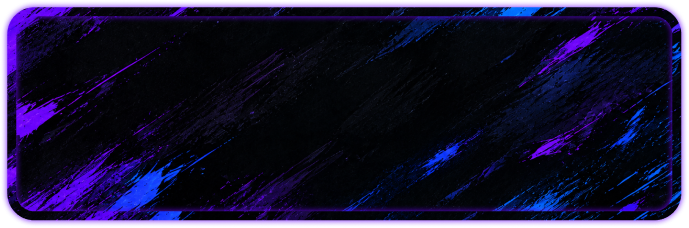
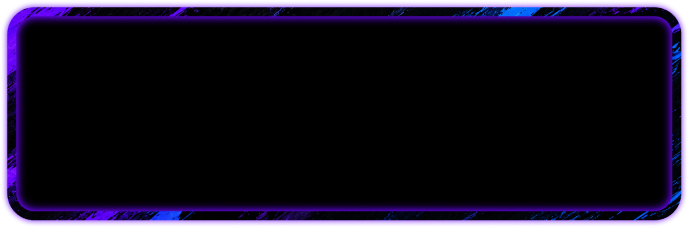
loading and optimization

diff --git a/app.js b/app.js
@@ -248,7 +248,7 @@ function loadXPosts(container) {
 }
 
 /**
- * Scan numbered files: 01, 02, 03... up to 100
+ * Scan numbered files: 01, 02, 03... up to 100 with active loading indicators & skeleton placeholders
  */
 function scanPortfolioFolder(folderName, container, isVideo) {
   const cfg = window.LUXE_CONFIG?.portfolio || {};
@@ -257,60 +257,174 @@ function scanPortfolioFolder(folderName, container, isVideo) {
     ? (cfg.videoExtensions || ['mp4', 'webm', 'mov'])
     : (cfg.photoExtensions || ['png', 'jpg', 'jpeg', 'webp', 'gif']);
 
-  let foundCount = 0;
   container.innerHTML = '';
+  let foundCount = 0;
+  let activeLoads = 0;
 
-  // Helper to test each candidate
+  const statusBar = document.getElementById('portfolioLoadingStatus');
+  const statusText = document.getElementById('portfolioStatusText');
+
+  function updateStatus() {
+    if (!statusBar || !statusText) return;
+    if (activeLoads > 0) {
+      statusBar.classList.remove('hidden');
+      statusText.textContent = `Loading ${activeLoads} ${isVideo ? 'video' : 'photo'} items...`;
+    } else {
+      statusText.textContent = `All media loaded! (${foundCount} found)`;
+      setTimeout(() => {
+        if (activeLoads === 0) {
+          statusBar.classList.add('hidden');
+        }
+      }, 1200);
+    }
+  }
+
+  // Pre-create placeholder skeleton frames for early indices
+  const initialSkeletons = {};
+  for (let s = 1; s <= 4; s++) {
+    const pad = String(s).padStart(2, '0');
+    const skel = document.createElement('div');
+    skel.className = 'skeleton-placeholder';
+    skel.id = `skel-${folderName}-${pad}`;
+    skel.innerHTML = `
+      <div class="skeleton-spinner"></div>
+      <span class="skeleton-label">Loading ${isVideo ? 'Video' : 'Photo'} ${pad}...</span>
+    `;
+    container.appendChild(skel);
+    initialSkeletons[pad] = skel;
+  }
+
+  updateStatus();
+
+  // Test sequentially and in parallel batches for optimal speed
   for (let i = 1; i <= max; i++) {
     const padded = String(i).padStart(2, '0');
     const unpadded = String(i);
-
     const candidateBases = [padded, unpadded];
 
     candidateBases.forEach(name => {
       extensions.forEach(ext => {
         const filePath = `Portfolio/${folderName}/${name}.${ext}`;
-        testAndAddMedia(filePath, container, isVideo, `${name}.${ext}`, () => {
-          foundCount++;
-          removeEmptyState(container);
-        });
+        activeLoads++;
+        updateStatus();
+
+        testAndAddMedia(
+          filePath,
+          container,
+          isVideo,
+          `${name}.${ext}`,
+          // On Success
+          () => {
+            foundCount++;
+            activeLoads = Math.max(0, activeLoads - 1);
+            if (initialSkeletons[padded] && initialSkeletons[padded].parentNode) {
+              initialSkeletons[padded].remove();
+              delete initialSkeletons[padded];
+            }
+            removeEmptyState(container);
+            updateStatus();
+          },
+          // On Fail / Finished probing
+          () => {
+            activeLoads = Math.max(0, activeLoads - 1);
+            updateStatus();
+          }
+        );
       });
     });
   }
 
-  // If after checking none exist yet, display user-friendly helper
+  // Clean up any remaining initial skeletons if not enough items exist
   setTimeout(() => {
+    Object.keys(initialSkeletons).forEach(pad => {
+      if (initialSkeletons[pad] && initialSkeletons[pad].parentNode) {
+        initialSkeletons[pad].remove();
+      }
+    });
+
     if (foundCount === 0) {
       showEmptyState(folderName, container, isVideo);
     }
-  }, 600);
+    updateStatus();
+  }, 1200);
 }
 
-function testAndAddMedia(url, container, isVideo, fileName, onSuccess) {
+/**
+ * Highly optimized media loader with fast metadata detection
+ */
+function testAndAddMedia(url, container, isVideo, fileName, onSuccess, onFail) {
   if (isVideo) {
     const video = document.createElement('video');
-    video.preload = 'metadata';
+    video.preload = 'metadata'; // Fast metadata load without buffering entire multi-MB video
+    video.muted = true;
+    video.playsInline = true;
     video.src = url;
-    video.onloadeddata = () => {
-      // Avoid duplicate insertion if padded and unpadded match
-      if (container.querySelector(`[data-url="${url}"]`)) return;
+
+    let hasHandled = false;
+
+    video.onloadedmetadata = () => {
+      if (hasHandled) return;
+      hasHandled = true;
+
+      // Avoid duplicates
+      if (container.querySelector(`[data-url="${url}"]`)) {
+        if (onFail) onFail();
+        return;
+      }
       onSuccess();
-      const card = createMediaCard(url, fileName, true);
+      const card = createMediaCard(url, fileName, true, video);
       container.appendChild(card);
     };
+
+    video.onerror = () => {
+      if (hasHandled) return;
+      hasHandled = true;
+      if (onFail) onFail();
+    };
+
+    // Timeout safety for non-existent files
+    setTimeout(() => {
+      if (!hasHandled) {
+        hasHandled = true;
+        if (onFail) onFail();
+      }
+    }, 1200);
+
   } else {
     const img = new Image();
-    img.src = url;
+    let hasHandled = false;
+
     img.onload = () => {
-      if (container.querySelector(`[data-url="${url}"]`)) return;
+      if (hasHandled) return;
+      hasHandled = true;
+
+      if (container.querySelector(`[data-url="${url}"]`)) {
+        if (onFail) onFail();
+        return;
+      }
       onSuccess();
       const card = createMediaCard(url, fileName, false);
       container.appendChild(card);
     };
+
+    img.onerror = () => {
+      if (hasHandled) return;
+      hasHandled = true;
+      if (onFail) onFail();
+    };
+
+    img.src = url;
+
+    setTimeout(() => {
+      if (!hasHandled) {
+        hasHandled = true;
+        if (onFail) onFail();
+      }
+    }, 1200);
   }
 }
 
-function createMediaCard(url, fileName, isVideo) {
+function createMediaCard(url, fileName, isVideo, existingVideo) {
   const item = document.createElement('div');
   item.className = 'portfolio-media-item';
   item.setAttribute('data-url', url);
@@ -324,8 +438,9 @@ function createMediaCard(url, fileName, isVideo) {
   overlay.innerHTML = '<i class="fa-solid fa-expand"></i>';
 
   if (isVideo) {
-    const vid = document.createElement('video');
+    const vid = existingVideo || document.createElement('video');
     vid.src = url;
+    vid.preload = 'metadata';
     vid.muted = true;
     vid.loop = true;
     vid.playsInline = true;
@@ -341,6 +456,7 @@ function createMediaCard(url, fileName, isVideo) {
     img.src = url;
     img.alt = fileName;
     img.loading = 'lazy';
+    img.decoding = 'async';
     item.appendChild(img);
   }
 

diff --git a/style.css b/style.css
@@ -694,6 +694,106 @@ html, body {
   margin: 0 auto;
 }
 
+/* ====================================================================
+   PORTFOLIO STATUS & SKELETON LOADERS
+   ==================================================================== */
+.portfolio-status-bar {
+  display: flex;
+  align-items: center;
+  justify-content: center;
+  gap: 12px;
+  background: rgba(147, 51, 234, 0.09);
+  border: 1px solid rgba(147, 51, 234, 0.28);
+  border-radius: 12px;
+  max-width: 480px;
+  margin: 0 auto 24px;
+  padding: 10px 22px;
+  color: #00d2ff;
+  font-size: 13.5px;
+  font-weight: 600;
+  letter-spacing: 0.8px;
+  transition: opacity 0.3s ease, transform 0.3s ease;
+}
+
+.portfolio-status-bar.hidden {
+  opacity: 0;
+  pointer-events: none;
+  transform: translateY(-8px);
+  height: 0;
+  padding: 0;
+  margin-bottom: 0;
+  overflow: hidden;
+  border: none;
+}
+
+.status-pulse-dot {
+  width: 9px;
+  height: 9px;
+  border-radius: 50%;
+  background-color: #00d2ff;
+  box-shadow: 0 0 10px #00d2ff;
+  animation: statusPulse 1.2s infinite ease-in-out;
+}
+
+@keyframes statusPulse {
+  0%, 100% {
+    transform: scale(0.9);
+    opacity: 0.5;
+  }
+  50% {
+    transform: scale(1.3);
+    opacity: 1;
+  }
+}
+
+/* Skeleton Loading Placeholder for Media Items */
+.skeleton-placeholder {
+  position: relative;
+  background: linear-gradient(110deg, #0e0c15 8%, #1c172a 18%, #0e0c15 33%);
+  background-size: 200% 100%;
+  animation: shimmer 1.5s infinite linear;
+  border: 1px solid rgba(147, 51, 234, 0.25);
+  border-radius: 16px;
+  aspect-ratio: 16 / 9;
+  display: flex;
+  flex-direction: column;
+  align-items: center;
+  justify-content: center;
+  gap: 12px;
+  color: var(--text-muted);
+}
+
+@keyframes shimmer {
+  0% {
+    background-position: 200% 0;
+  }
+  100% {
+    background-position: -200% 0;
+  }
+}
+
+.skeleton-spinner {
+  width: 32px;
+  height: 32px;
+  border: 3px solid rgba(147, 51, 234, 0.3);
+  border-top-color: #00d2ff;
+  border-radius: 50%;
+  animation: spinLoader 0.8s infinite linear;
+}
+
+@keyframes spinLoader {
+  to {
+    transform: rotate(360deg);
+  }
+}
+
+.skeleton-label {
+  font-size: 13px;
+  letter-spacing: 1px;
+  color: var(--text-sub);
+  font-weight: 600;
+}
+
 .portfolio-media-item {
   position: relative;
   background: #000000;
@@ -703,6 +803,18 @@ html, body {
   aspect-ratio: 16 / 9;
   cursor: pointer;
   transition: transform 0.2s ease, border-color 0.2s ease;
+  animation: fadeInItem 0.35s ease forwards;
+}
+
+@keyframes fadeInItem {
+  from {
+    opacity: 0;
+    transform: translateY(6px);
+  }
+  to {
+    opacity: 1;
+    transform: translateY(0);
+  }
 }
 
 .portfolio-media-item:hover {

diff --git a/index.html b/index.html
@@ -228,6 +228,12 @@
             </button>
           </div>
 
+          <!-- Loading Progress Banner -->
+          <div id="portfolioLoadingStatus" class="portfolio-status-bar">
+            <div class="status-pulse-dot"></div>
+            <span id="portfolioStatusText">Checking portfolio media...</span>
+          </div>
+
           <!-- Videos Grid (2 per row) - Plays local videos + X videos -->
           <div id="videosGrid" class="portfolio-grid">
             <!-- Dynamically populated from Portfolio/Videos and XPosts.js -->
